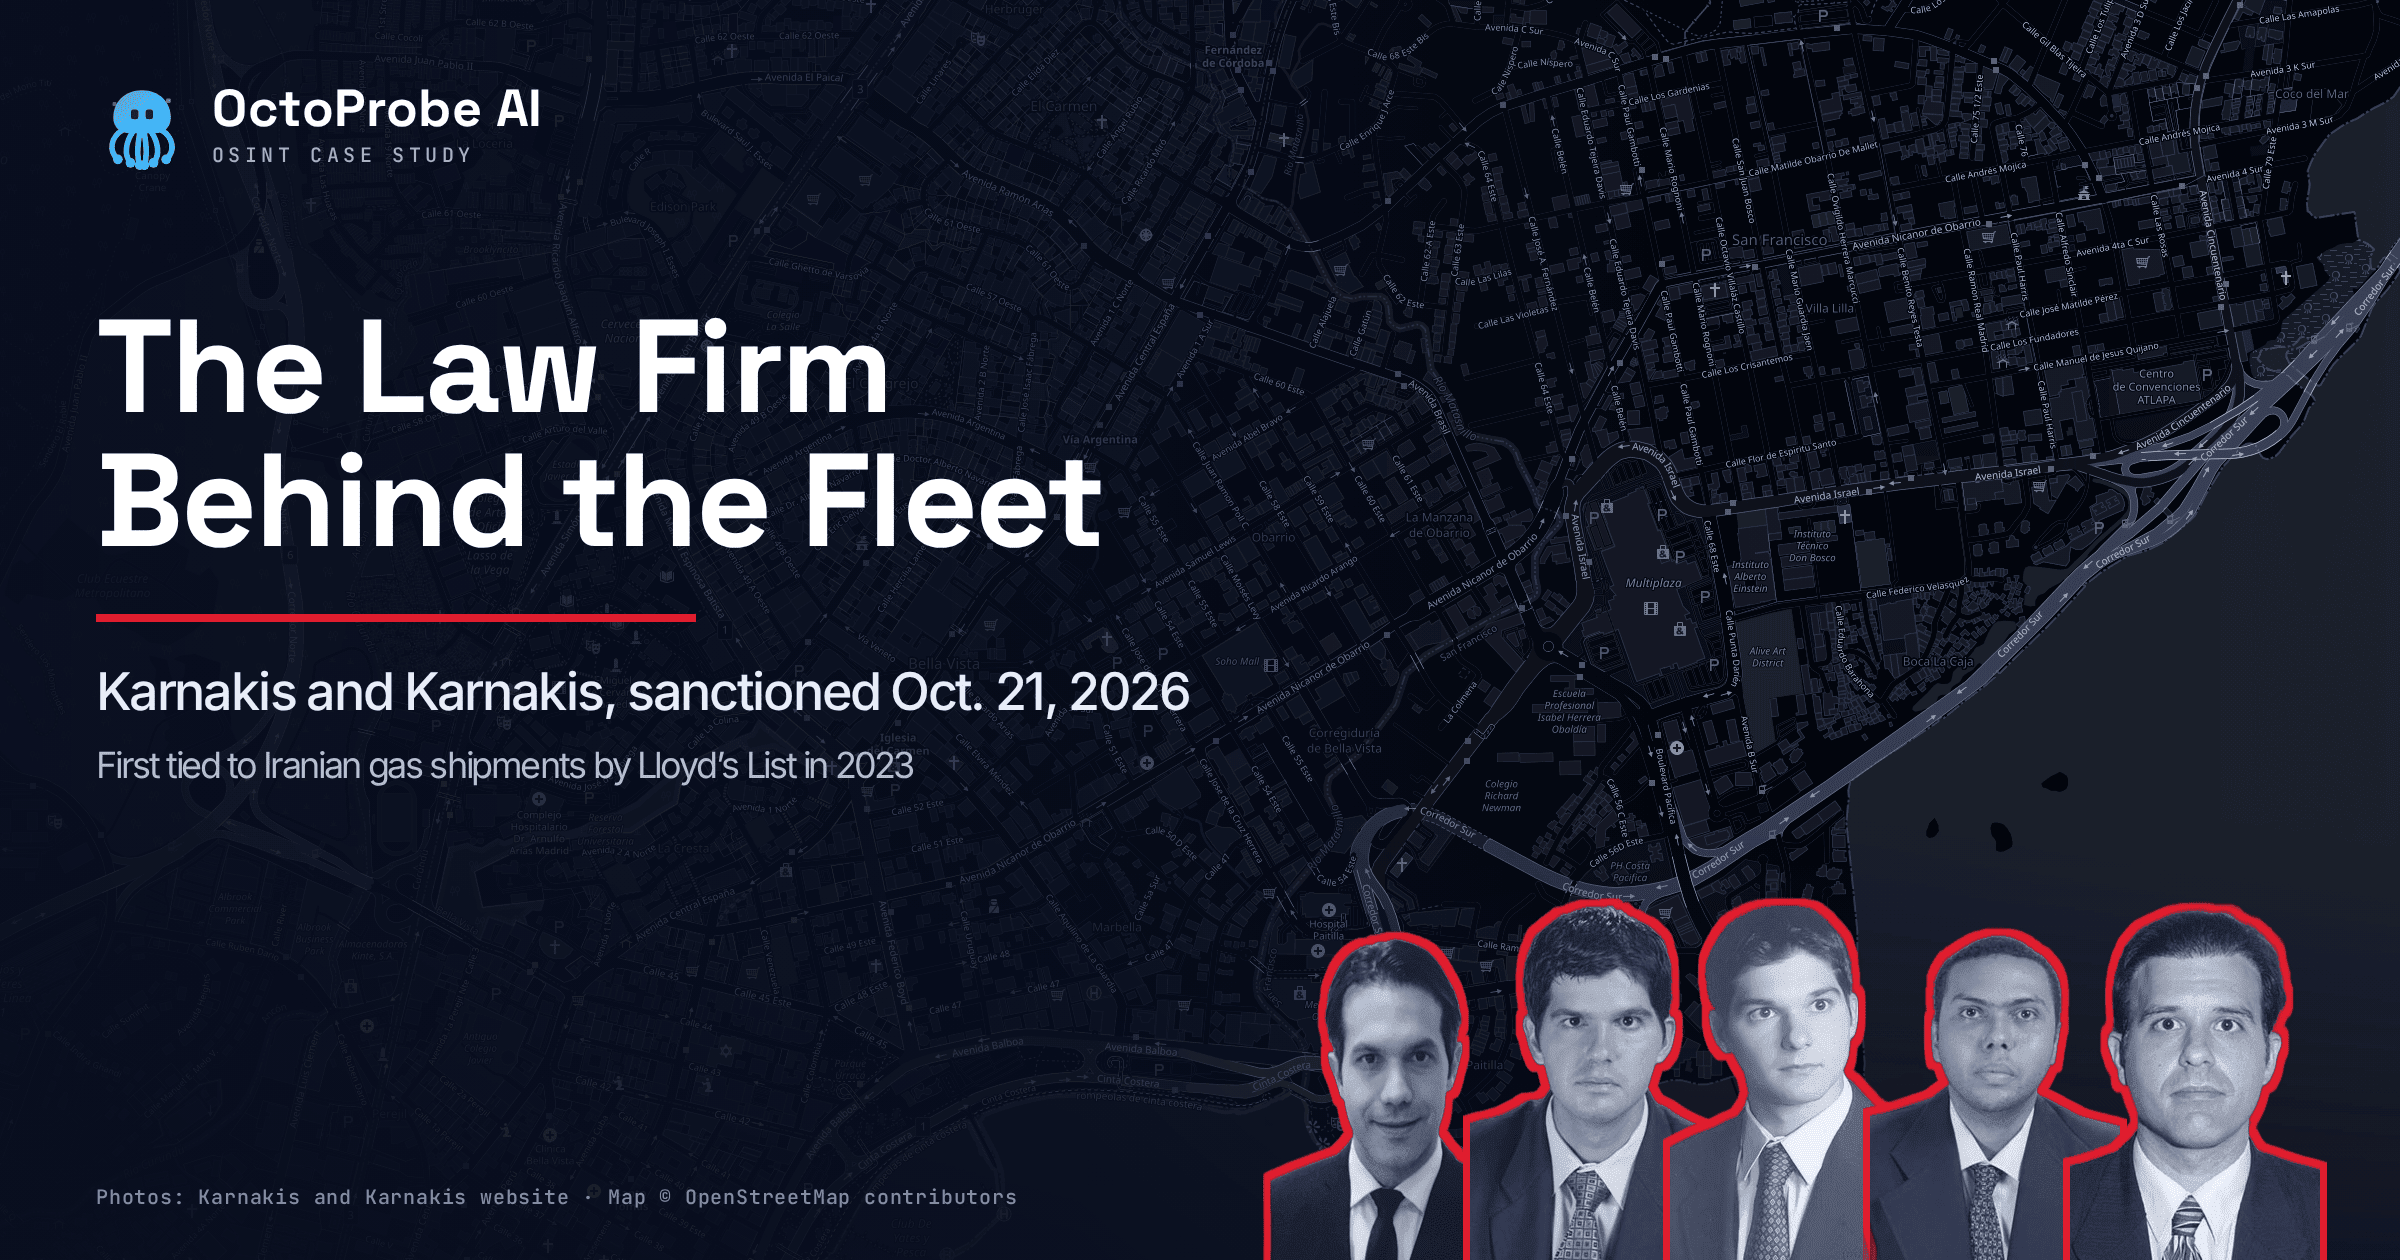
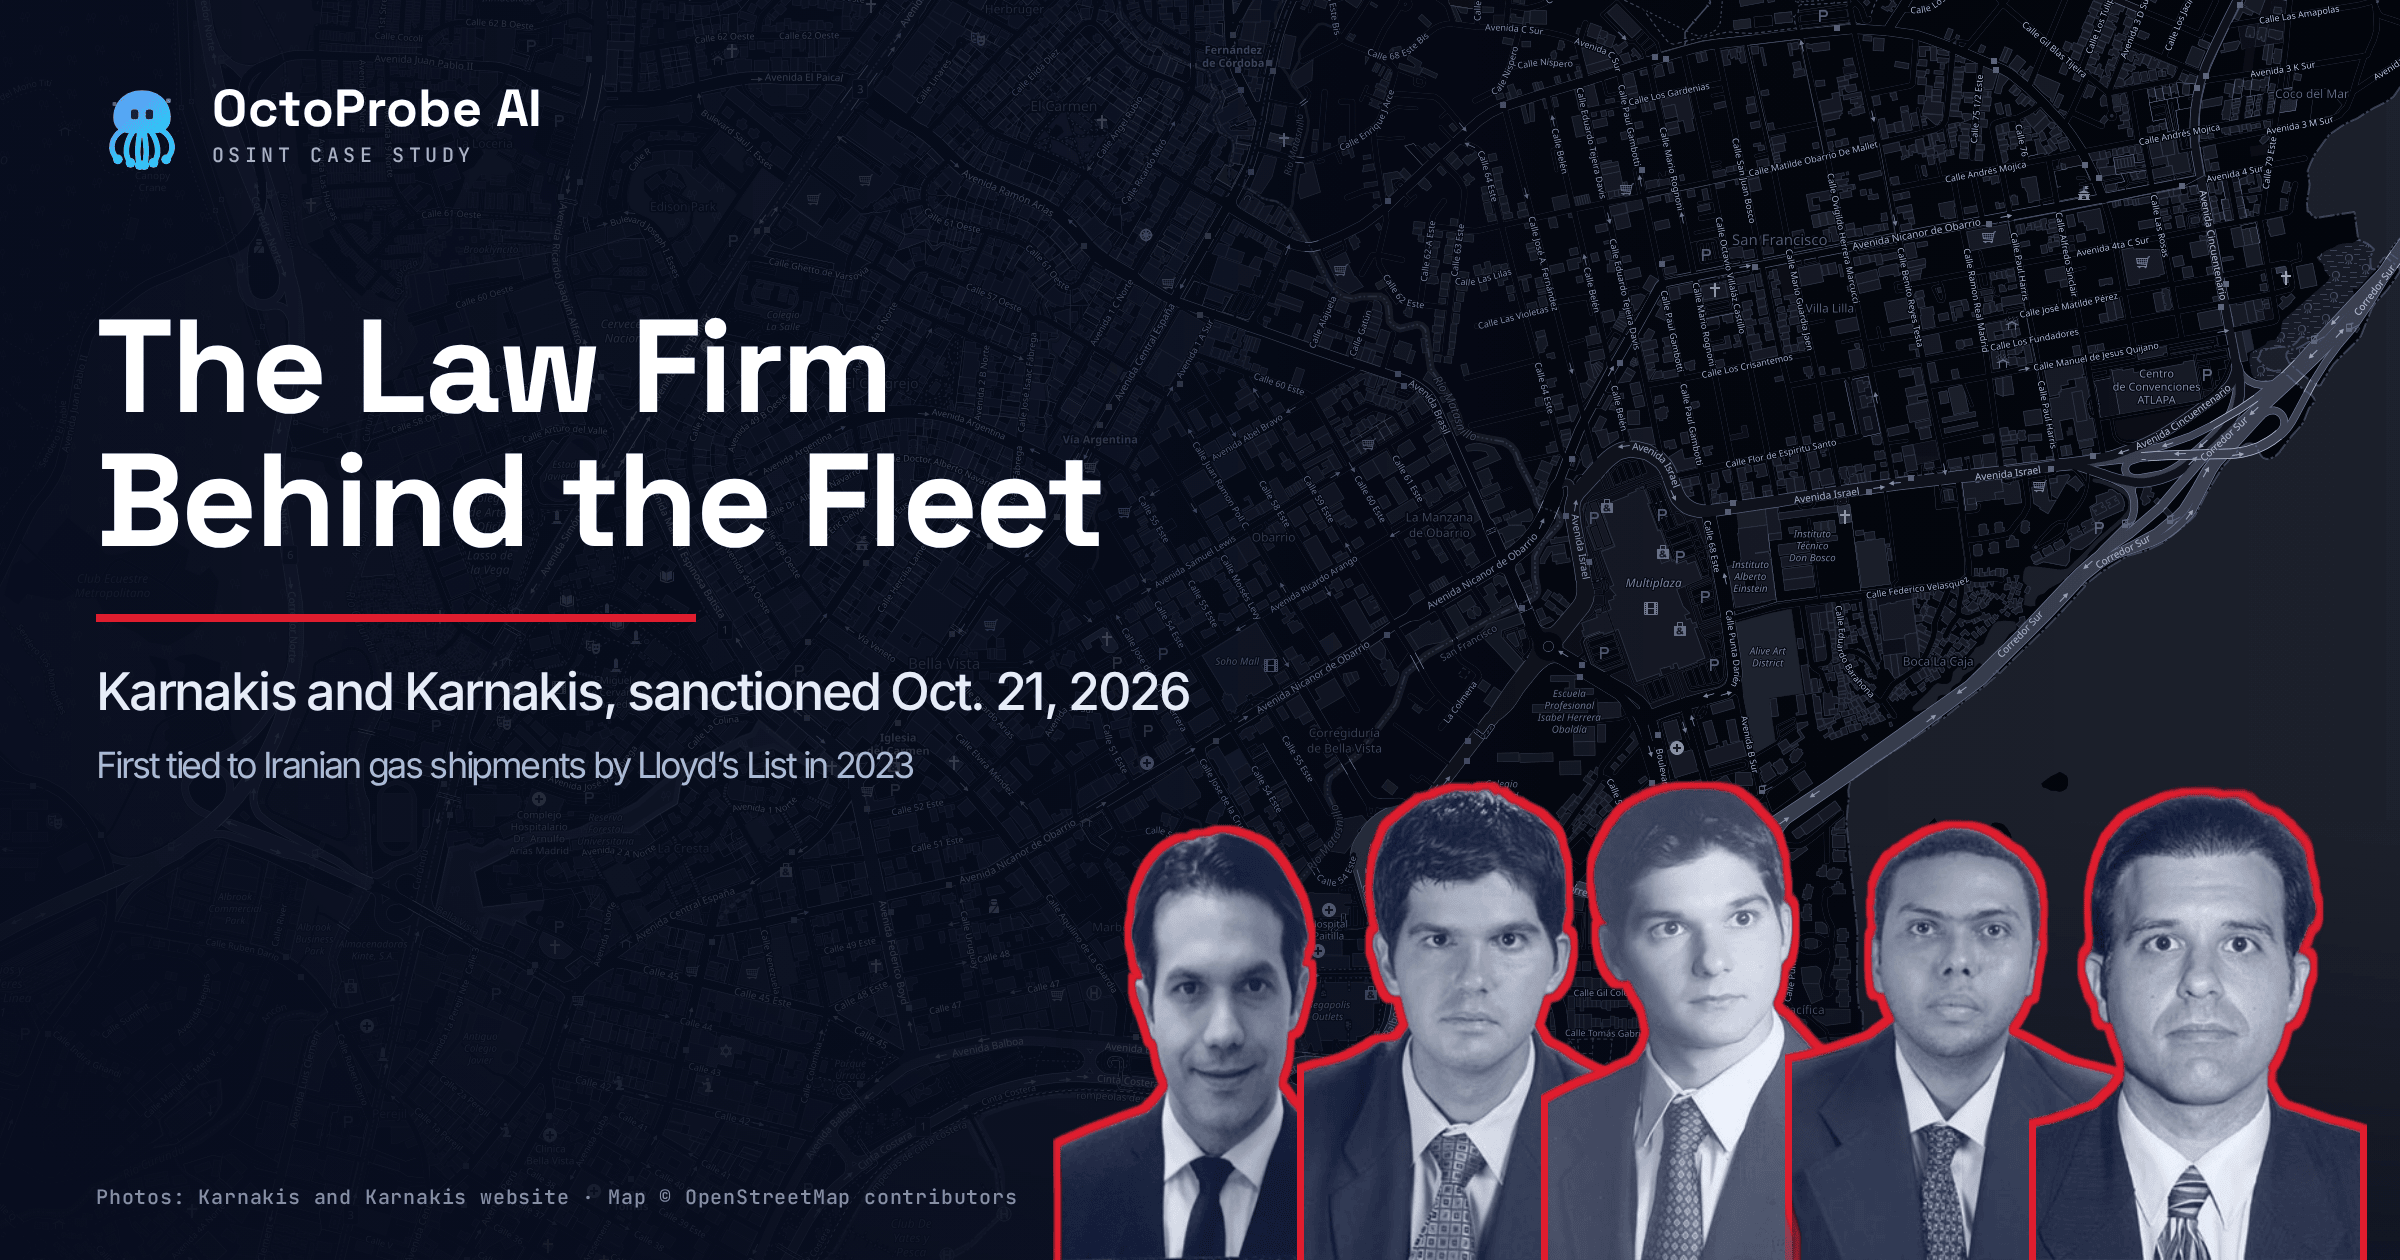
Blog: enlarge Karnakis cover headshots ~30%

Changed region(s): [[0.4375, 0.619, 1.0, 1.0]]

diff --git a/blog/karnakis-and-karnakis-panama-law-firm-iran-shadow-fleet-ofac/index.html b/blog/karnakis-and-karnakis-panama-law-firm-iran-shadow-fleet-ofac/index.html
@@ -22,7 +22,7 @@
 <meta property="og:image:height" content="630">
 <meta property="og:image:alt" content="Cutouts of five Karnakis and Karnakis staff photos from the firm’s website, outlined in red and overlapping at lower right, on a dark street map of Panama City, beside the words The Law Firm Behind the Fleet.">
 <meta property="article:published_time" content="2026-10-21T21:45:00-04:00">
-<meta property="article:modified_time" content="2026-10-21T21:59:00-04:00">
+<meta property="article:modified_time" content="2026-10-21T22:10:00-04:00">
 <meta property="article:section" content="Investigations">
 <meta name="twitter:card" content="summary_large_image">
 <meta name="twitter:site" content="@octoprobeai">
@@ -36,7 +36,7 @@
   "headline": "Panama Law Firm Was Tied to Iran’s Shadow Fleet Three Years Before Treasury Sanctioned It",
   "description": "Karnakis and Karnakis, sanctioned October 21, 2026: the earliest public report, the seven linked companies sanctioned first, where the allegations came from, and how openly the firm operated.",
   "datePublished": "2026-10-21T21:45:00-04:00",
-  "dateModified": "2026-10-21T21:59:00-04:00",
+  "dateModified": "2026-10-21T22:10:00-04:00",
   "author": {
     "@type": "Person",
     "@id": "https://www.octoprobe.ai/blog/authors/colin-aamot/#person",

diff --git a/blog/index.html b/blog/index.html
@@ -272,7 +272,7 @@
       <div class="post-grid" id="postGrid">
         <a class="post-card reveal" href="/blog/karnakis-and-karnakis-panama-law-firm-iran-shadow-fleet-ofac/">
           <div class="thumb" aria-hidden="true">
-            <img src="/blog/karnakis-and-karnakis-panama-law-firm-iran-shadow-fleet-ofac/assets/cover.png?v=1" alt="" loading="lazy" decoding="async">
+            <img src="/blog/karnakis-and-karnakis-panama-law-firm-iran-shadow-fleet-ofac/assets/cover.png?v=2" alt="" loading="lazy" decoding="async">
           </div>
           <div class="card-body">
             <div class="meta">
